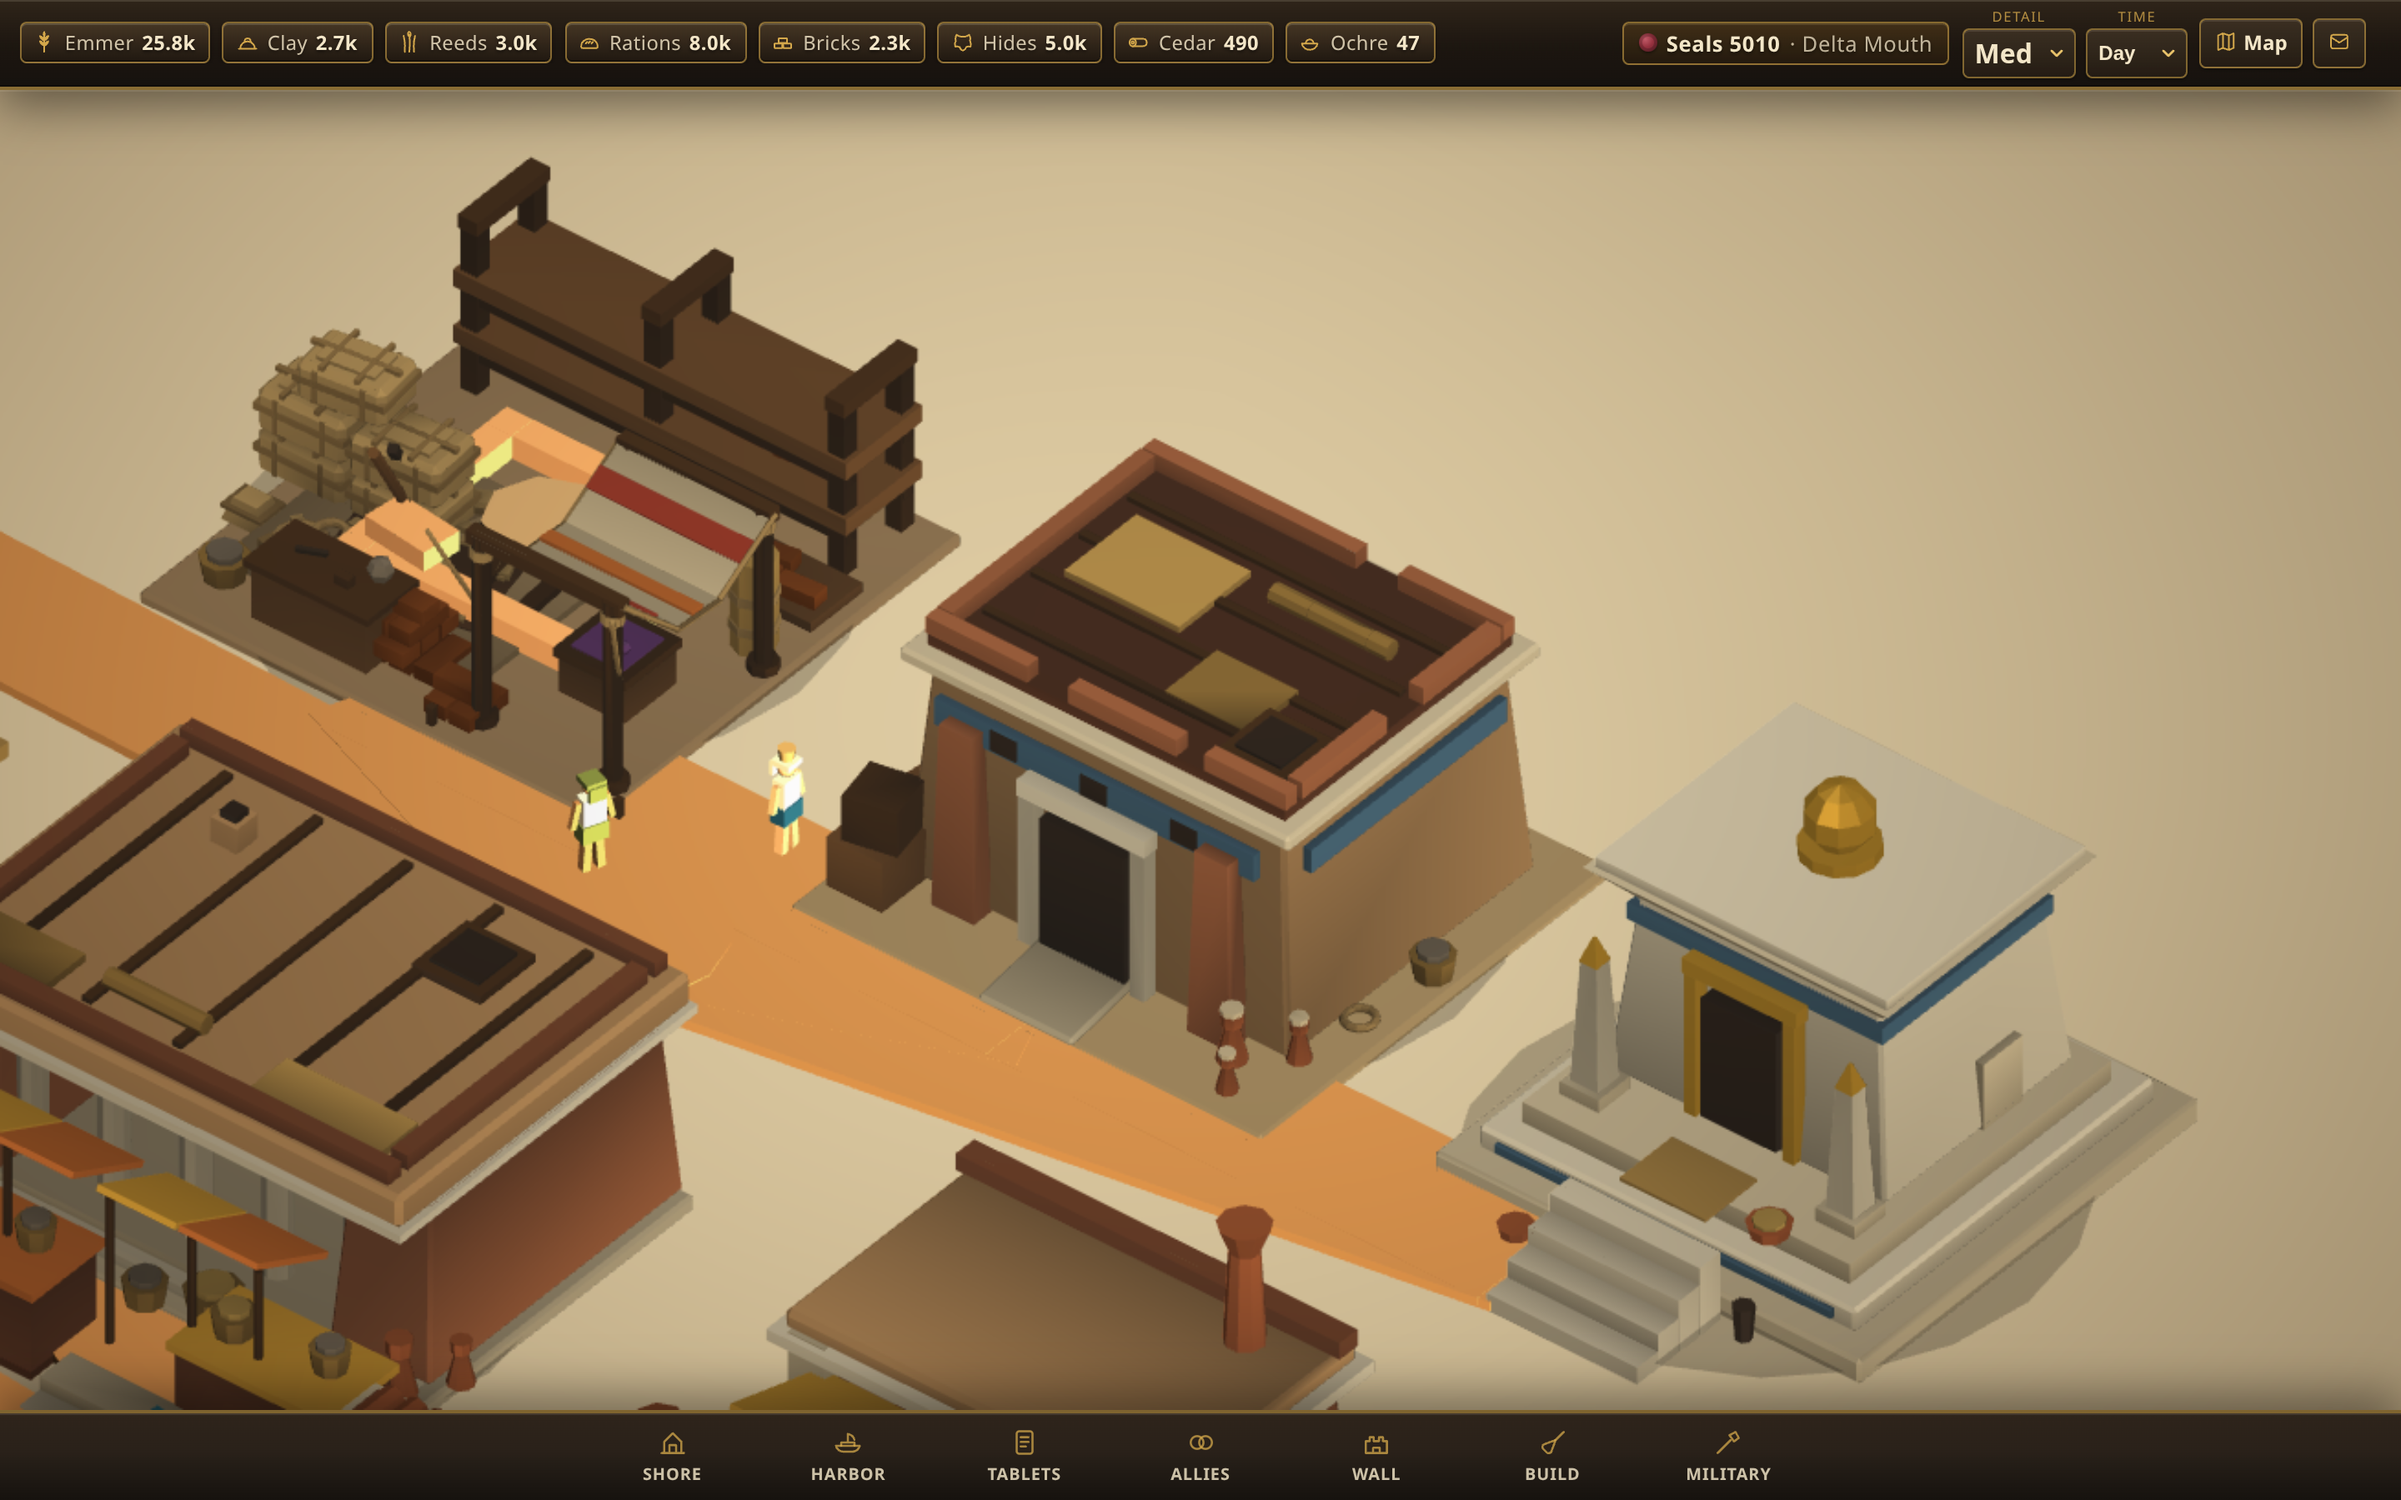
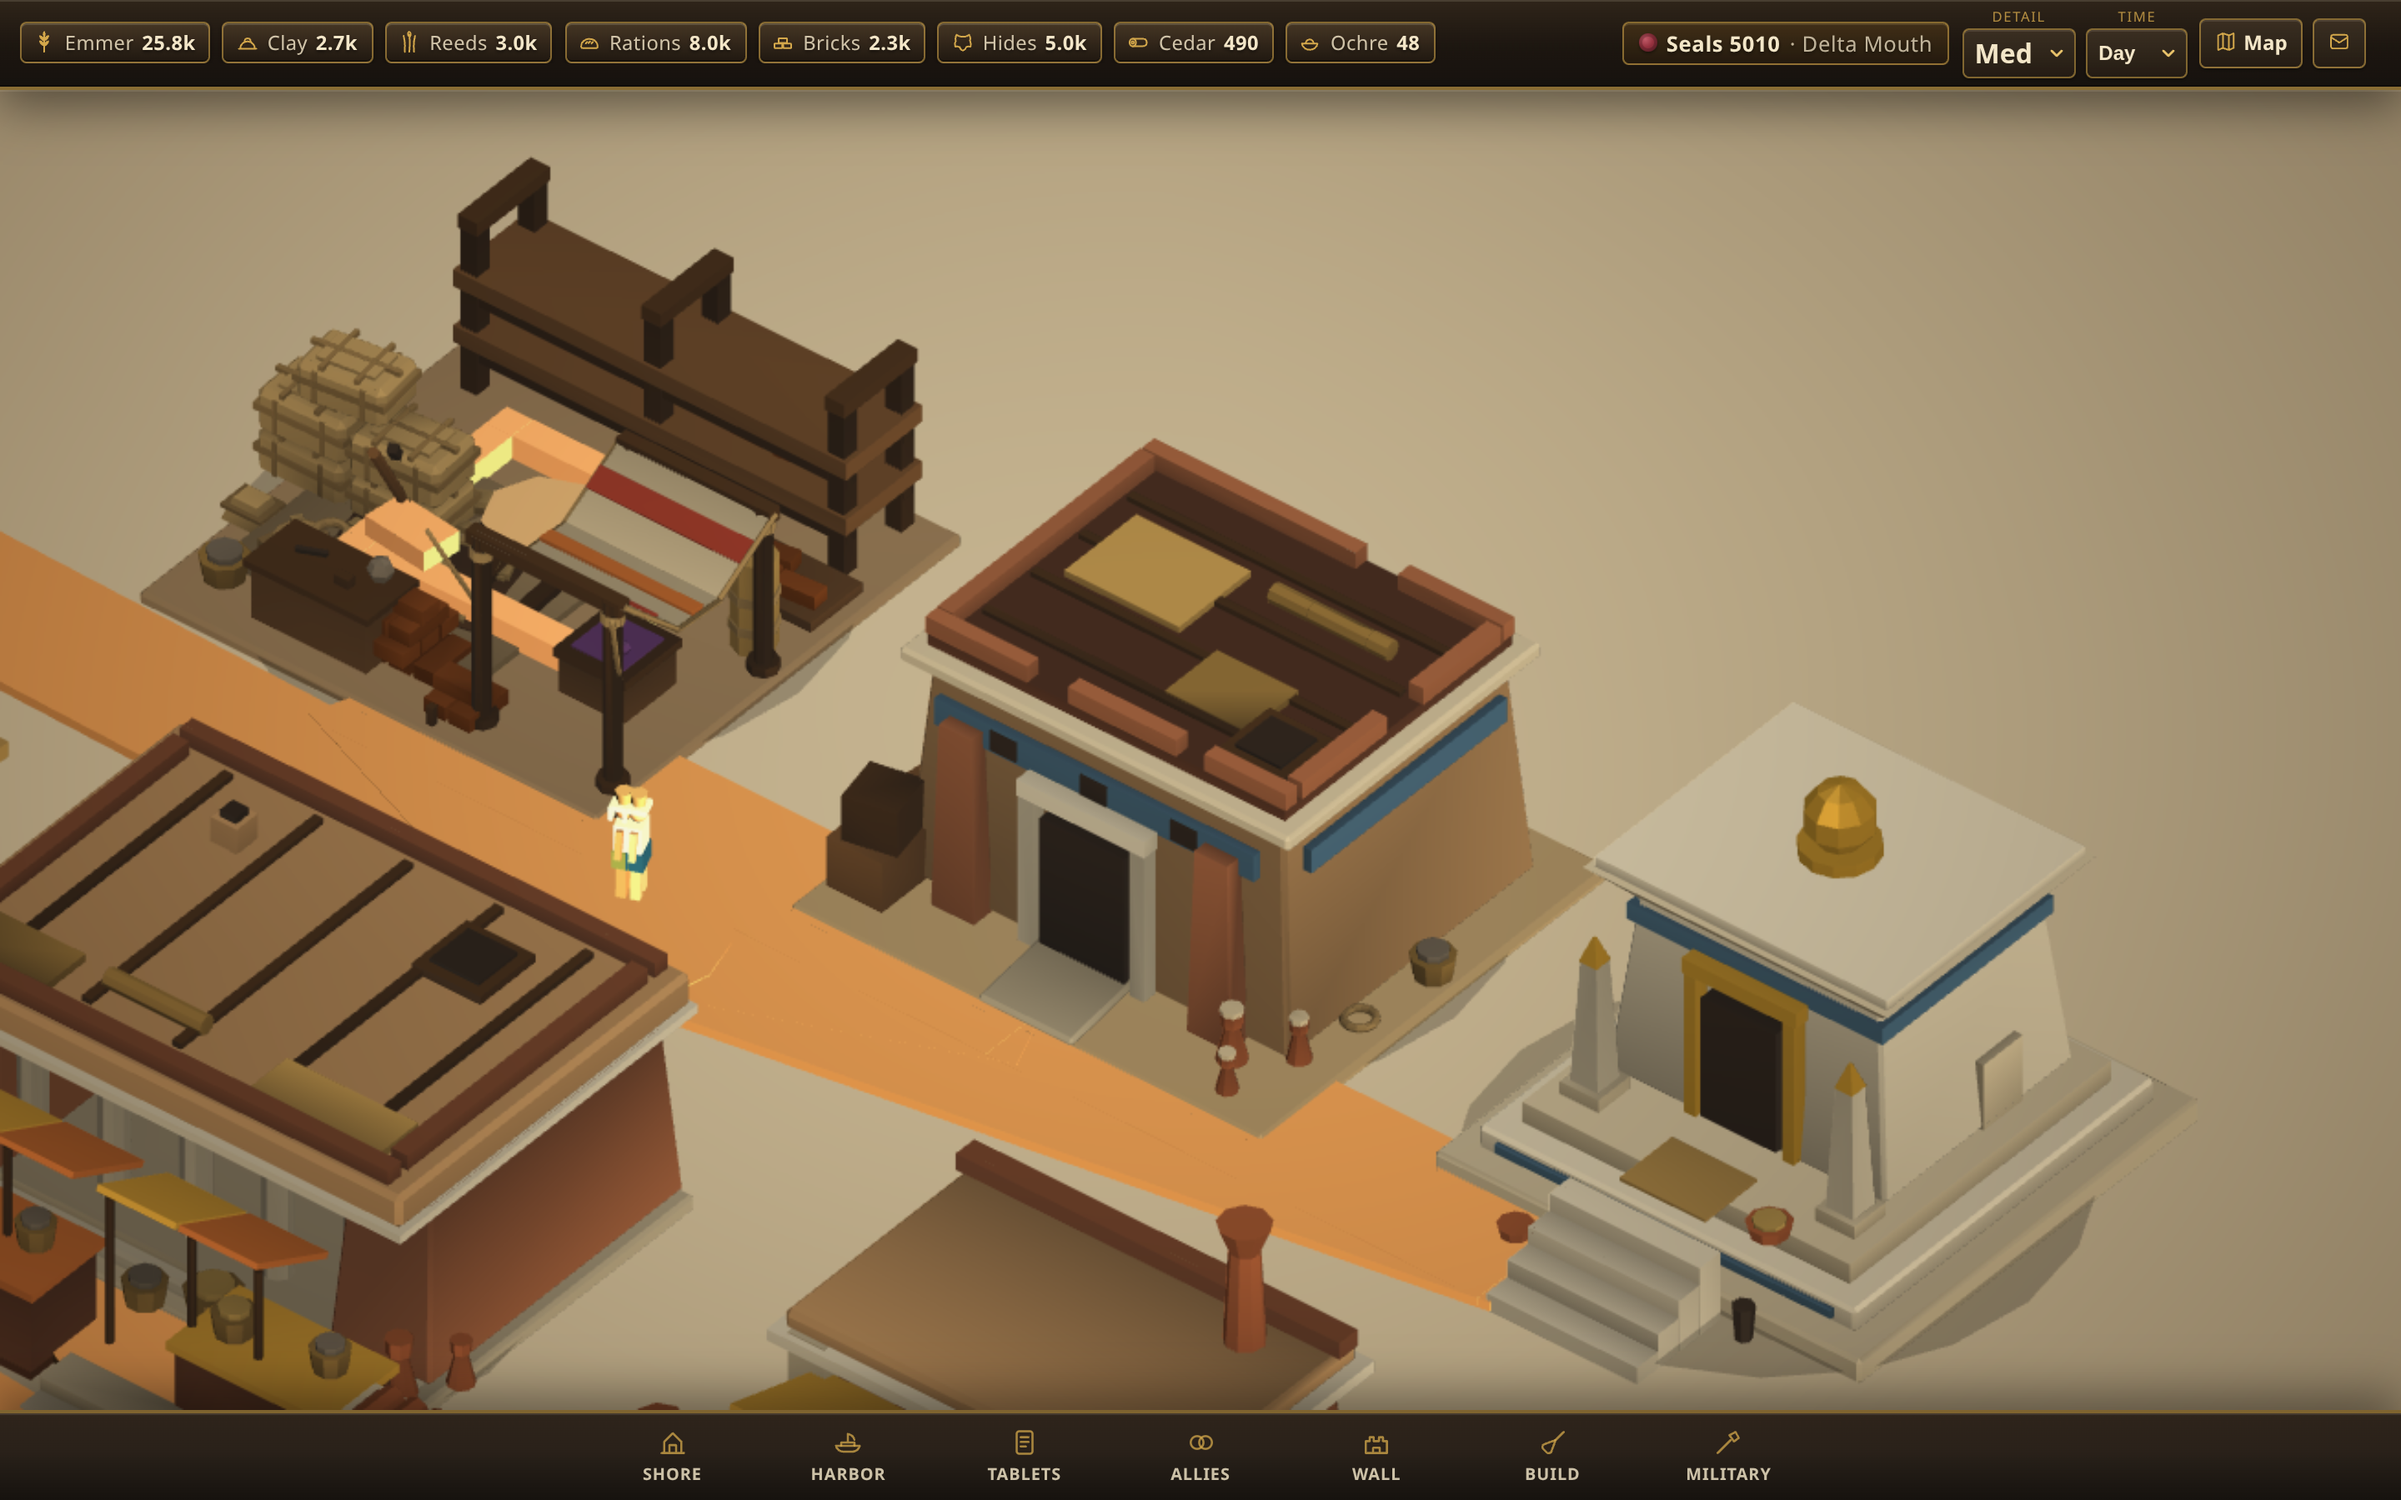
fix(overhaul-r11): barges seated in water, aerial-perspective fog, terrain form
Probe-confirmed bug: barge hulls sat 0.17 above the waterline (bargeHull y=0.21
vs river top 0.04) — now seated so the waterline cuts the hull.

Linear aerial-perspective fog replaces EXP2 (which was invisible or a flat wash
at ortho board distance) — the near/far value falloff judges asked for every
round. Terrain macro contrast raised again plus 9 dune-shadow crescents so the
sand has form, not just noise.

Adds GOAL-FULL-VISUAL-OVERHAUL-STATUS.md: 10-round scorecard, what shipped,
the honest remaining gap, repro commands, and the four root causes worth
remembering (hasVertexAlpha/COLOR_0, AO carpet invertY, dead boardApprovalFog,
mobile min-width:auto).

diff --git a/apps/client/src/render/scene.ts b/apps/client/src/render/scene.ts
@@ -892,18 +892,36 @@ export class SettlementView {
       ctx.fillStyle = `rgb(${br},${bg},${bb})`;
       ctx.fillRect(0, 0, size, size);
       // MACRO: large soft tonal blotches (visible at board distance)
-      for (let k = 0; k < 26; k++) {
+      for (let k = 0; k < 34; k++) {
         const x = Math.random() * size;
         const y = Math.random() * size;
         const r = size * (0.12 + Math.random() * 0.2);
-        const dv = (Math.random() - 0.42) * 44;
+        const dv = (Math.random() - 0.4) * 62;
         const g = ctx.createRadialGradient(x, y, 0, x, y, r);
-        g.addColorStop(0, `rgba(${br + dv},${bg + dv * 0.86},${bb + dv * 0.66},0.72)`);
+        g.addColorStop(0, `rgba(${br + dv},${bg + dv * 0.84},${bb + dv * 0.6},0.85)`);
         g.addColorStop(1, "rgba(0,0,0,0)");
         ctx.fillStyle = g;
         ctx.beginPath();
         ctx.arc(x, y, r, 0, Math.PI * 2);
         ctx.fill();
+      }
+      // Dune shadow crescents — soft form, so the plane is not just noise
+      for (let k = 0; k < 9; k++) {
+        const cx = Math.random() * size;
+        const cy = Math.random() * size;
+        const rr = size * (0.09 + Math.random() * 0.13);
+        ctx.save();
+        ctx.translate(cx, cy);
+        ctx.rotate(-0.7 + Math.random() * 0.3);
+        ctx.scale(1, 0.42);
+        const g2 = ctx.createRadialGradient(0, 0, rr * 0.25, 0, 0, rr);
+        g2.addColorStop(0, `rgba(${br - 34},${bg - 32},${bb - 26},0.34)`);
+        g2.addColorStop(1, "rgba(0,0,0,0)");
+        ctx.fillStyle = g2;
+        ctx.beginPath();
+        ctx.arc(0, 0, rr, 0, Math.PI * 2);
+        ctx.fill();
+        ctx.restore();
       }
       // MICRO: grit speckle + silt flecks
       const img = ctx.getImageData(0, 0, size, size);
@@ -1307,7 +1325,7 @@ export class SettlementView {
   private makeOneBarge(name: string, x: number, z: number, scale: number): TransformNode {
     const root = new TransformNode(name, this.scene);
     root.parent = this.envRoot;
-    root.position.set(x, 0.08, z);
+    root.position.set(x, -0.06, z);
     root.scaling.setAll(scale);
     const dark = name.endsWith("2") ? "#4E3018" : "#5A3A22";
     const hm = new StandardMaterial(`${name}HullMat`, this.scene);
@@ -1373,13 +1391,13 @@ export class SettlementView {
     if (this.bargeNode) {
       const z = -6 + Math.sin(now * 0.12) * 8;
       this.bargeNode.position.z = z;
-      this.bargeNode.position.y = 0.12 + Math.sin(now * 1.6) * 0.03;
+      this.bargeNode.position.y = -0.06 + Math.sin(now * 1.6) * 0.02;
       this.bargeNode.rotation.y = Math.sin(now * 0.2) * 0.08;
     }
     if (this.bargeNode2) {
       const z2 = 4 + Math.sin(now * 0.09 + 1.2) * 6;
       this.bargeNode2.position.z = z2;
-      this.bargeNode2.position.y = 0.12 + Math.sin(now * 1.4 + 0.5) * 0.025;
+      this.bargeNode2.position.y = -0.06 + Math.sin(now * 1.4 + 0.5) * 0.02;
       this.bargeNode2.rotation.y = Math.PI + Math.sin(now * 0.15) * 0.06;
     }
   }

diff --git a/apps/client/src/render/atmosphere.ts b/apps/client/src/render/atmosphere.ts
@@ -139,17 +139,18 @@ export class Atmosphere {
     // Board approval law: fog minimal — the fixed board camera sits ~48 units
     // out, so density 0.012 washed 28% grey over every building. Near-zero
     // density keeps depth cue without the film.
-    this.scene.fogMode = Scene.FOGMODE_EXP2;
-    const fogScale = this.boardApprovalFog ? 0.35 : 1;
+    // Aerial perspective: LINEAR fog over the board's depth range gives a
+    // real near/far value falloff (EXP2 at ortho distance was either invisible
+    // or a flat wash). Judges flagged the absence every round.
+    this.scene.fogMode = Scene.FOGMODE_LINEAR;
+    this.scene.fogStart = 34;
+    this.scene.fogEnd = this.boardApprovalFog ? 96 : 120;
     if (n < 0.35) {
-      this.scene.fogDensity = 0.012 * fogScale;
-      this.scene.fogColor = hexToColor3("#C4B898");
+      this.scene.fogColor = hexToColor3("#CFC3A4");
     } else if (n < 0.7) {
-      this.scene.fogDensity = 0.010 * fogScale;
-      this.scene.fogColor = hexToColor3("#C89878");
+      this.scene.fogColor = hexToColor3("#C08A62");
     } else {
-      this.scene.fogDensity = 0.018 * fogScale;
-      this.scene.fogColor = hexToColor3("#101820");
+      this.scene.fogColor = hexToColor3("#0E1620");
     }
 
     // Night local lamps (window/hearth falloff — not roof flood)

diff --git a/GOAL-FULL-VISUAL-OVERHAUL-STATUS.md b/GOAL-FULL-VISUAL-OVERHAUL-STATUS.md
@@ -1,0 +1,124 @@
+# GOAL — FULL VISUAL OVERHAUL · Status after 10 judged rounds
+
+**Date:** 2026-08-03 · **Branch:** main · **Evidence:** `tools/judge/evidence/full-overhaul/` (31 shots, regenerated every round)
+**Method:** build round → regenerate the whole 31-shot gallery from the live game → 4 independent art-director judges (structures/cohesion, environment, UI, product) score the *whole* gallery → fix their exact findings → repeat.
+
+---
+
+## Where it landed
+
+| Round | Mean | Min | Headline |
+|---|---:|---:|---|
+| R1 | 3.7 | 2.7 | 15 kits + full UI skin land; environment is a tan void |
+| R2 | 4.6 | 3.0 | artifact purge (mist, ghosts, farHaze); sun path animates |
+| R3 | 4.8 | 3.4 | macro sand, boulder rocks, mobile root-cause fix |
+| R4 | 5.6 | 3.4 | **baked AO in all 15 kits**; PCF shadows |
+| R5 | 6.4 | 5.0 | WaterMaterial Nile, cinematic grade |
+| R6 | 6.3 | 4.5 | sky-gold hunt, life density |
+| R7 | 6.7 | 5.6 | scrub anchoring, olive banks, summed night lamps |
+| R8 | 6.7 | 5.3 | painted AO carpet, occupancy-gated roads, inspect scrim |
+| R9 | 5.8 | 4.2 | *harsher panel (3× zoom)*; kit transparency root cause found |
+| **R10** | **6.0** | **4.8** | contact discs, palm rebuild, shop-tier identity, greybox purge |
+
+R9/R10 panels zoomed to 3× and found defects earlier rounds never saw, so the
+numbers dip while the product improves — compare `board-day.png` across rounds
+in git history rather than trusting the scalar.
+
+### Current per-category (R10, min across 4 judges)
+
+| Category | Score | Category | Score |
+|---|---:|---|---:|
+| **UI / HUD** | **7.9** | Materials | 6.0 |
+| **Mobile** | **7.4** | Life & motion | 5.9 |
+| **World map** | **7.2** | Cohesion | 5.6 |
+| Structures | 6.4 | Ground & river | 5.2 |
+| Lighting | 6.3 | Depth / staging | 5.0 |
+| First impression | 6.2 | Atmosphere | 4.8 |
+
+**Gate (mean ≥ 8.0 / min ≥ 6) is NOT met.** UI, mobile and the world map are at
+or near the bar. The 3D environment is the whole remaining gap.
+
+---
+
+## What actually shipped
+
+**Buildings — all 15 kinds authored in Blender** (`tools/kit-pipeline/author_kits.py`,
+one procedural generator, ~4.5k lines): great_house, market, emmer_field,
+mudbrick_yard, harbor, river_clay_pit, marsh_reed_bed, ration_house, vessel_shop,
+reed_basket_shop, luxury_material, luxury_workshop, warehouse, shrine,
+training_grounds. Each is a solid multi-material mass with props, 10–20 meshes,
+1–2.5k tris, **baked Cycles ambient occlusion + painted value jitter in COLOR_0**.
+Shop tier now differentiated by silhouette, hero prop and roof treatment
+(beehive silos/plank · stepped kiln+chimney/tile · basket tower/thatch).
+
+**Environment:** displaced dune terrain outside the play field, 1024px macro sand
+texture (tonal blotches + dune crescents + grit), palm/scrub/rock/dune scatter,
+reflective animated `WaterMaterial` Nile, varying shoreline, linear aerial-perspective
+fog, PCF shadows, per-building contact discs, day/dusk/night with a moving sun path
+and summed quarter lamps at night.
+
+**Life:** sim-driven shaped workers (headcloth, kilt, A-stance, carried loads),
+three cargo barges seated in the water, night window lamps across the whole city.
+
+**UI — every surface skinned** (`UI-SURFACE-LIST.md`, 28 surfaces): design tokens +
+papyrus texture + display serif, login key art, glyph resource chips, icon nav,
+panel shell, shore/build/wall/tablets/allies/military/harbor panels, inspect popup
+with level-path table, tutorial + goals, toasts, dark mode, mobile at 390px,
+and an authored inline-SVG world map (860px set piece, province borders,
+arc-placed markers, ownership wash, 7-state legend, collision-relaxed labels).
+
+**Camera:** fixed board tightened 48 → 30 per the owner's "zoom it in" note.
+
+---
+
+## The remaining gap (what a next pass must do)
+
+Ordered by judge-score leverage. These are art-direction investments, not bug fixes —
+the bug class is exhausted.
+
+1. **Atmosphere (4.8) & Depth (5.0).** No particulate life anywhere: no dust drift,
+   no heat shimmer, no smoke over a kiln district, no birds, no water motion beyond
+   barge drift. A smoke attempt was cut in R6 because opaque puffs photographed as
+   floating rocks — it needs a proper soft-particle/billboard system, not meshes.
+   The board also has ~45% empty sand; it wants a framing element (far dune ridge
+   silhouette band, distant cliff) to close the composition.
+2. **Ground & river (5.2).** The river is still a straight diagonal of flat value
+   bands meeting at a hard seam. It needs a genuine meandering ribbon mesh with a
+   shore blend gradient, foam at the waterline, and depth falloff — not stacked boxes.
+3. **Cohesion (5.6).** Every building sits on its own rectangular plot tray in a
+   slightly different beige; the settlement reads as tiles pasted on sand. Fix:
+   remove per-kit aprons entirely and let a single painted ground layer carry the
+   packed-earth wear.
+4. **Kit awnings** are untapered flat quads whose poles do not always meet the
+   ground — the "orange billboard" the R10 panel flagged in five frames.
+5. **Villagers** are visibly a fidelity tier below the architecture at close zoom.
+
+---
+
+## Repro / tooling
+
+```bash
+# author + export every kit (Blender 4.0.2 headless, bakes AO)
+blender -b -P tools/kit-pipeline/author_kits.py
+
+# regenerate the full 31-shot judge gallery from the live game
+npm run dev            # then:
+node tools/kit-pipeline/capture-gallery.mjs
+```
+
+`tools/kit-pipeline/probe.mjs` dumps live mesh names/positions/materials near a
+world coordinate — it is how the transparency, floating-barge and misplaced-AO
+bugs were located.
+
+### Root causes worth remembering
+
+- **Kit meshes rendered semi-transparent** because Babylon auto-sets
+  `hasVertexAlpha` when `COLOR_0` has 4 components (our AO bake), pushing every
+  kit into the alpha-blend pass. Fixed with `mesh.hasVertexAlpha = false`.
+- **A world-space painted AO carpet kept mis-registering** (DynamicTexture
+  `invertY` double-flip) and read as casterless shadow smudges. Replaced with
+  per-building contact discs parented to the building transform.
+- **`boardApprovalFog` was set but never read** — scene fog was washing 28% grey
+  over every building at the fixed camera distance.
+- **Mobile overflow** was caused by grid items defaulting to `min-width:auto`;
+  the 7-tab nav widened the whole game column past the viewport.
